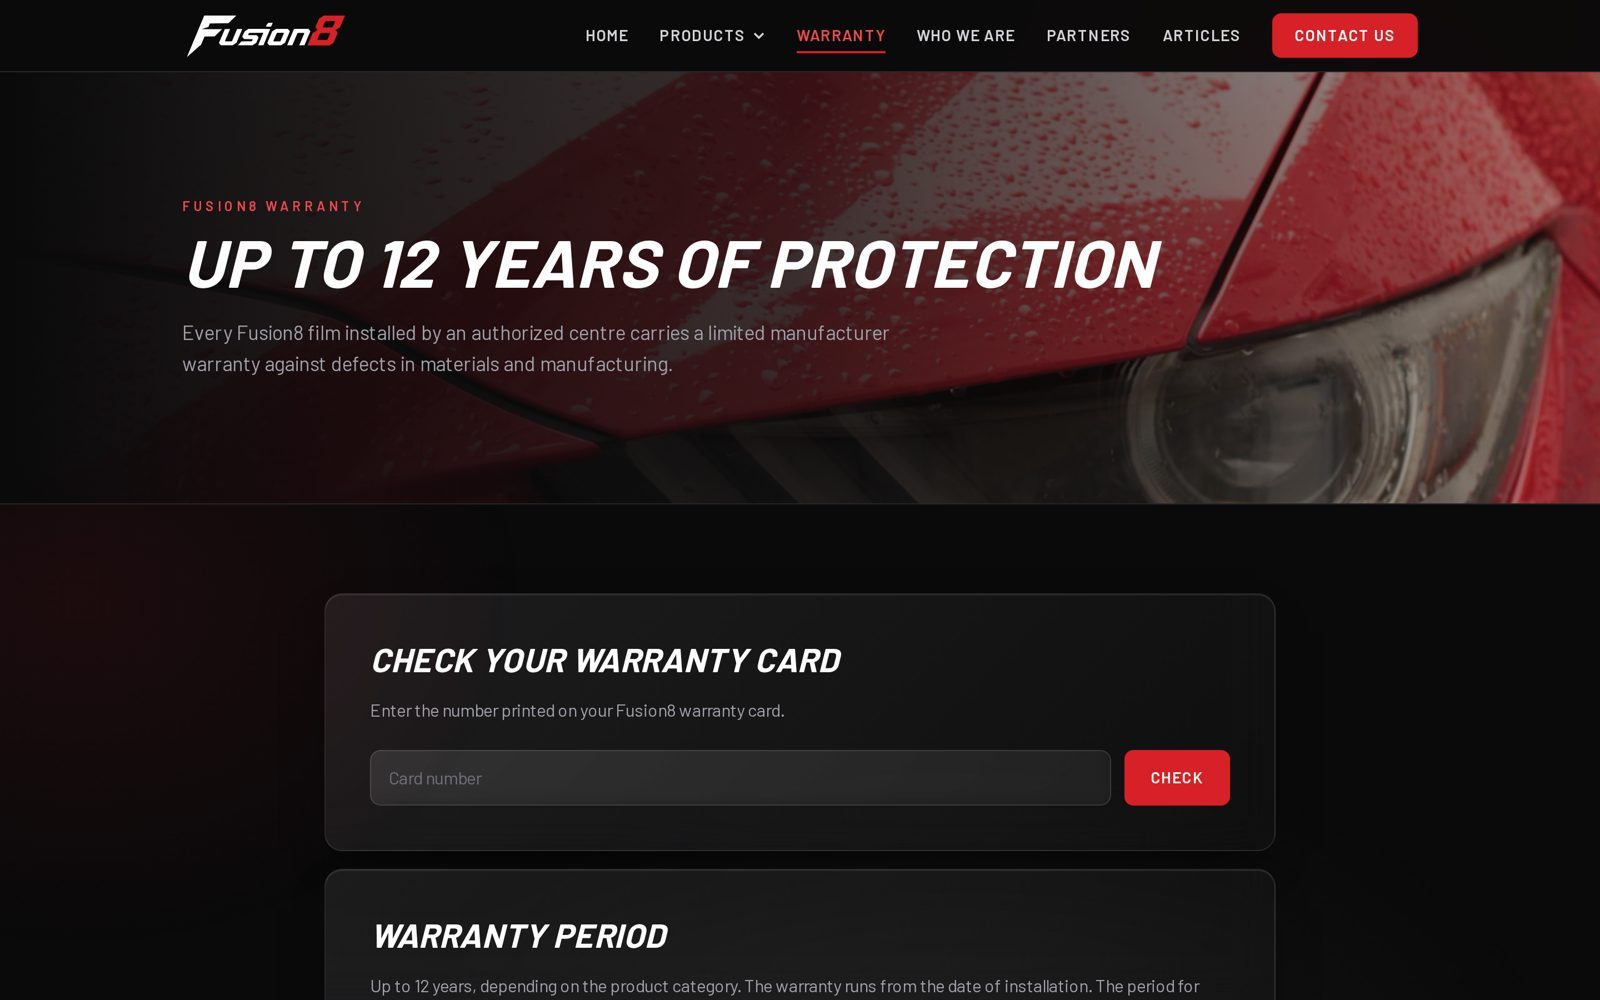
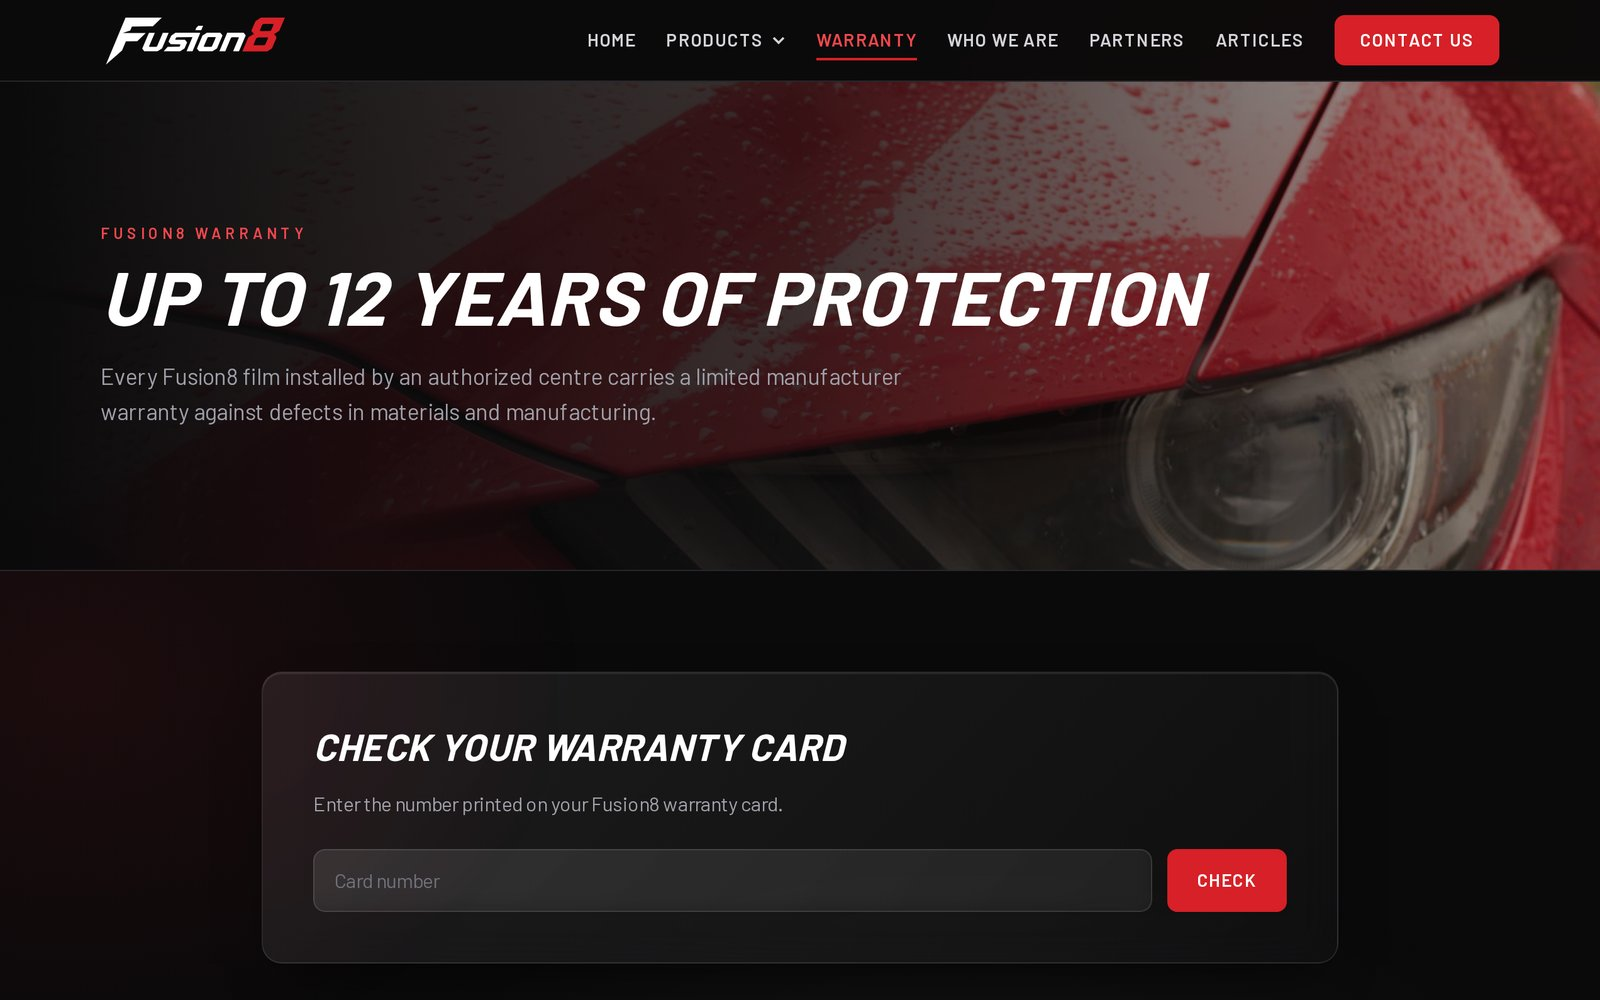
Fusion8: re-shoot warranty image without cut card, shorter forms point

diff --git a/src/content.js b/src/content.js
@@ -214,7 +214,7 @@ export const fusion8 = {
     'Warranty card lookup: car owners enter their card number and check it themselves',
     'A private Arabic page for authorized centres to activate cards, with the expiry worked out from the film type',
     'A page for each of the four films, with specs and a comparison table',
-    'Enquiry and partnership forms, a sitemap and clear titles for Google',
+    'Enquiry and partnership forms, set up to be found on Google',
     'Live on the brand\'s own domain and fully handed over',
   ],
 };
